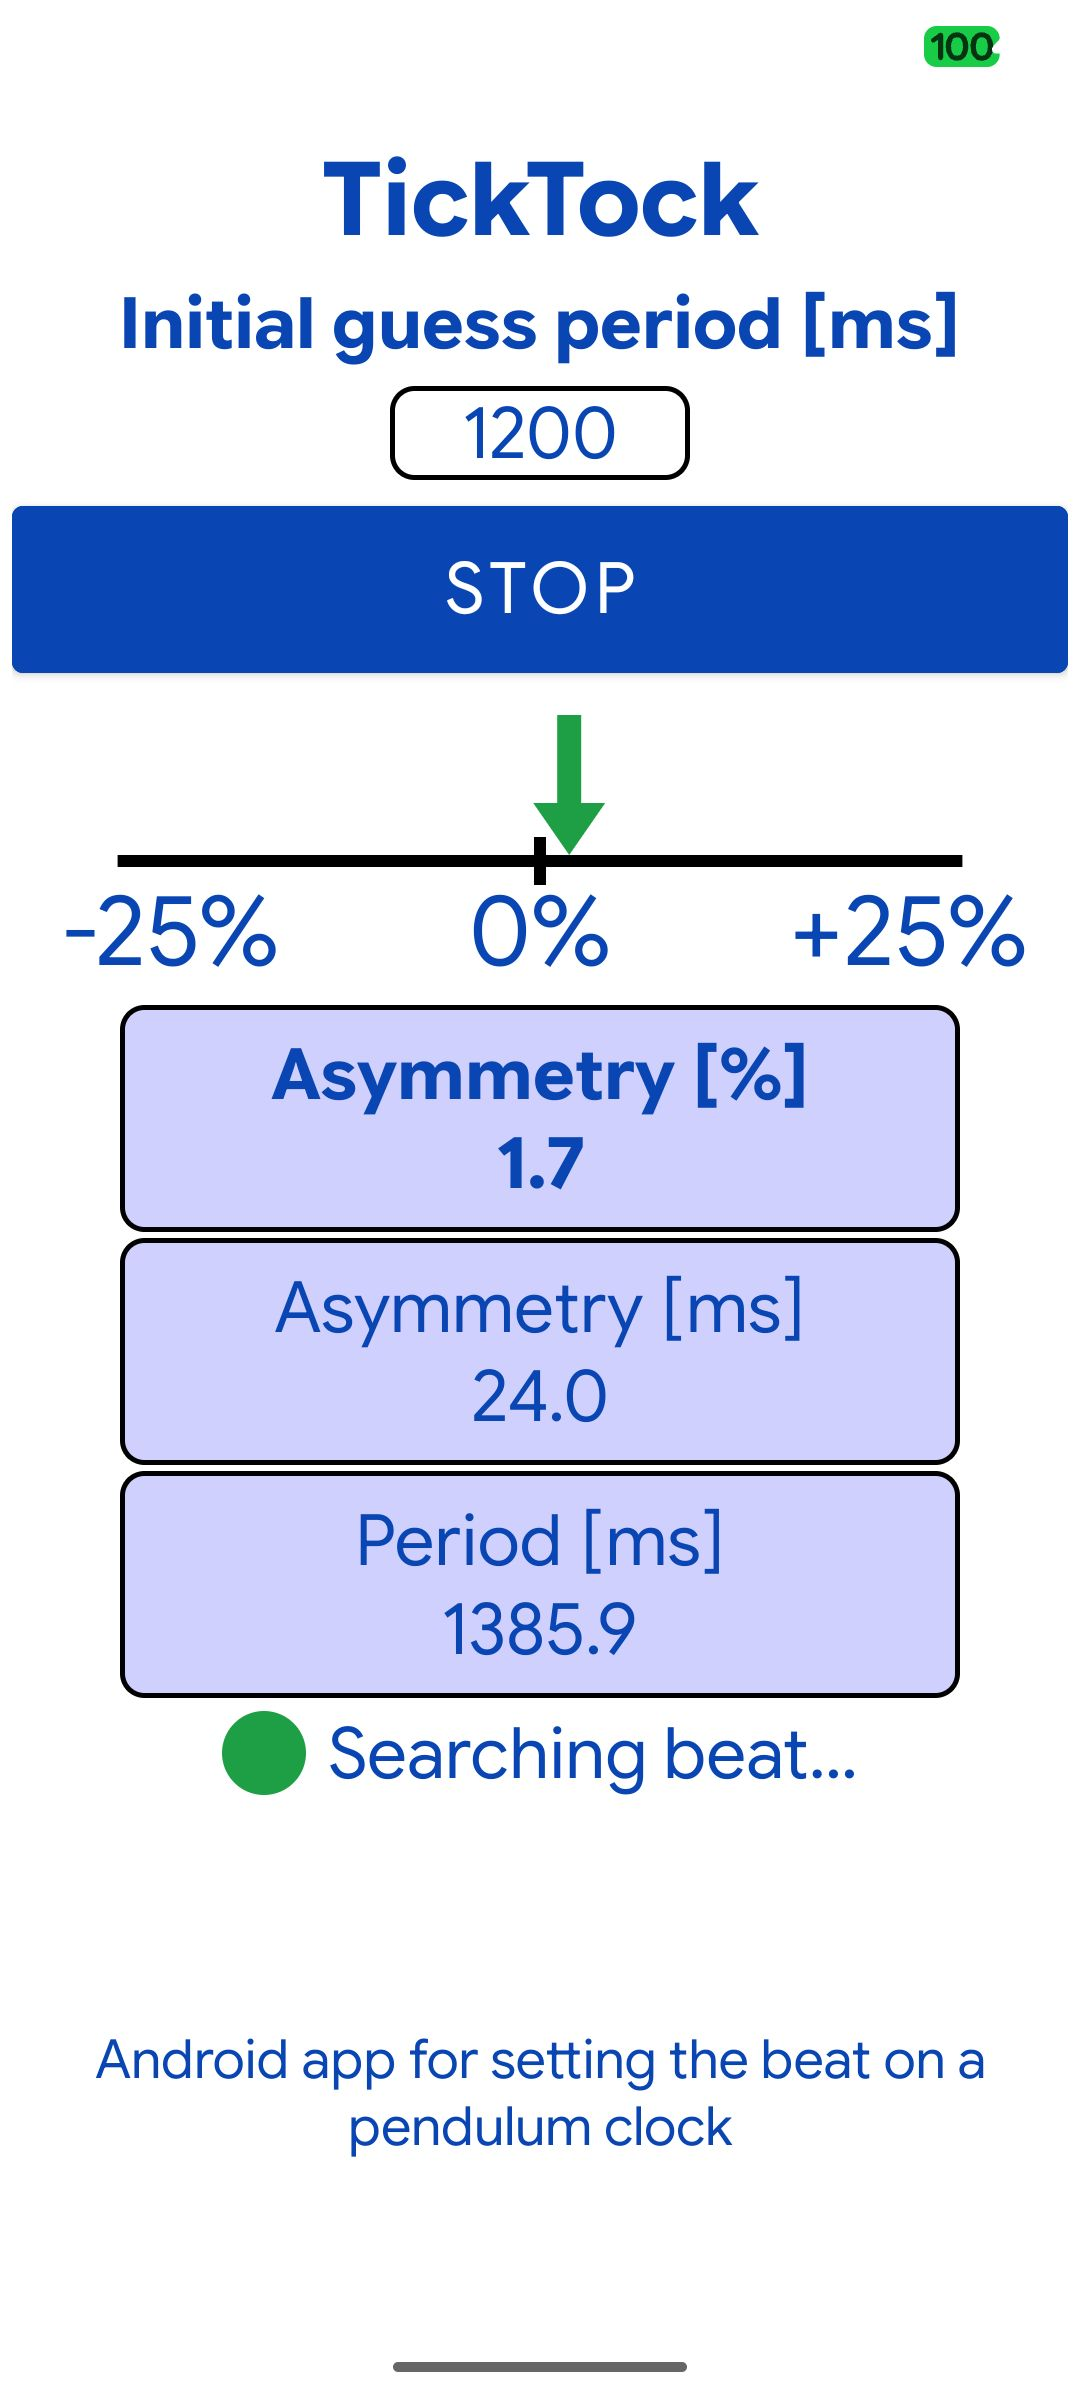
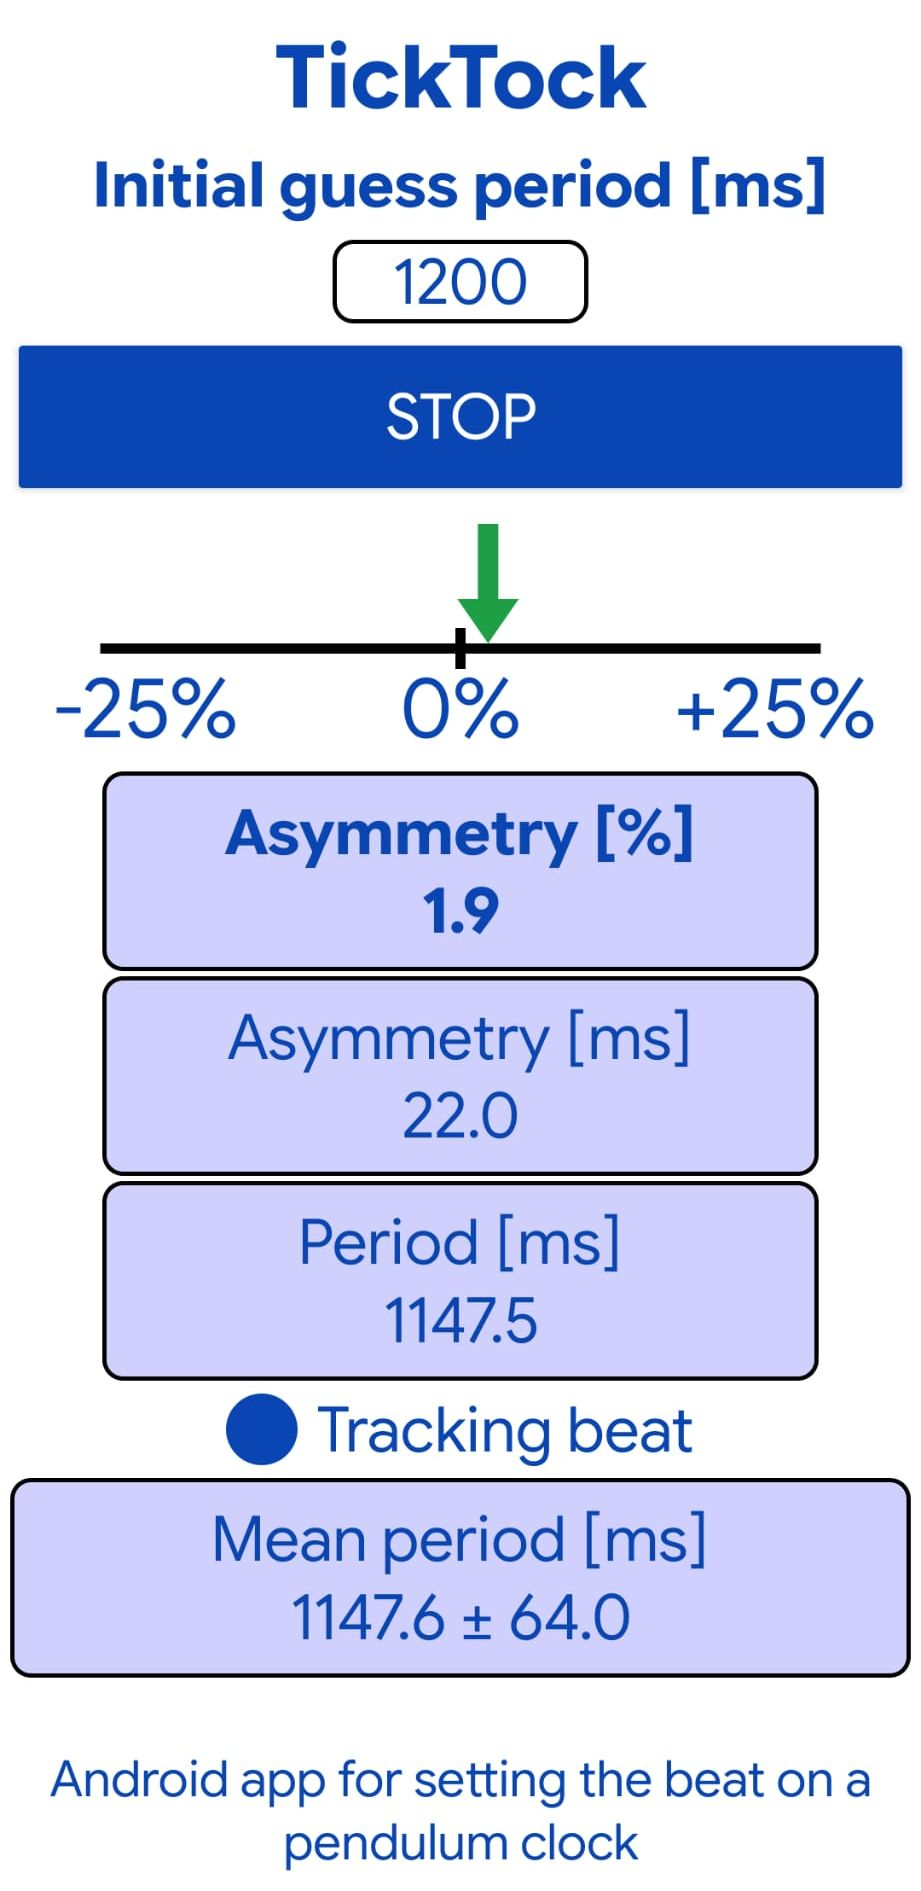
Release 1.0.4

diff --git a/app/src/main/java/com/ticktock/app/MainActivity.kt b/app/src/main/java/com/ticktock/app/MainActivity.kt
@@ -1,24 +1,34 @@
 package com.ticktock.app
 
 import android.Manifest
+import android.content.ContentValues
 import android.content.pm.PackageManager
 import android.os.Bundle
+import android.os.Environment
+import android.provider.MediaStore
 import android.util.TypedValue
 import android.view.View
 import android.view.ViewGroup
 import android.view.animation.AccelerateDecelerateInterpolator
 import android.widget.TextView
+import android.widget.Toast
 import androidx.activity.result.contract.ActivityResultContracts
 import androidx.appcompat.app.AppCompatActivity
 import androidx.core.content.ContextCompat
 import com.ticktock.app.databinding.ActivityMainBinding
+import java.text.SimpleDateFormat
+import java.util.Date
 import java.util.Locale
+import kotlin.concurrent.thread
 
 class MainActivity : AppCompatActivity() {
 
     private lateinit var binding: ActivityMainBinding
     private var analyzer: AudioBeatAnalyzer? = null
     private var running = false
+    private val beatLogLock = Any()
+    private val loggedBeats = mutableListOf<String>()
+    private var acceptingBeatLog = false
 
     private val permissionLauncher = registerForActivityResult(
         ActivityResultContracts.RequestPermission()
@@ -66,22 +76,85 @@ class MainActivity : AppCompatActivity() {
     private fun startAnalyzer() {
         val guessPeriodMs = binding.guessInput.text.toString().toLongOrNull()?.coerceIn(400, 8000) ?: 1200L
         binding.guessInput.setText(guessPeriodMs.toString())
+        synchronized(beatLogLock) {
+            loggedBeats.clear()
+            acceptingBeatLog = true
+        }
         binding.startButton.text = "Stop"
         binding.statusText.text = "Searching beat..."
+        binding.tickText.text = "Mean period [ms]\n--"
         running = true
 
         analyzer = AudioBeatAnalyzer(initialGuessPeriodMs = guessPeriodMs) { metrics ->
+            synchronized(beatLogLock) {
+                if (acceptingBeatLog) {
+                    loggedBeats += String.format(Locale.US, "%.3f", metrics.beatTimeSeconds)
+                }
+            }
             runOnUiThread { renderMetrics(metrics) }
         }.also { it.start() }
     }
 
     private fun stopAnalyzer() {
+        if (!running && analyzer == null) return
         analyzer?.stop()
         analyzer = null
+        val beats = synchronized(beatLogLock) {
+            acceptingBeatLog = false
+            loggedBeats.toList()
+        }
         running = false
         binding.startButton.text = "Start"
         binding.beatDot.backgroundTintList = ContextCompat.getColorStateList(this, R.color.ticktock_red)
         binding.statusText.text = "Searching beat..."
+        val meanPeriodStats = calculateMeanPeriodStats(
+            beatDeltas(beats),
+            trimEnd = true
+        )
+        binding.tickText.text = formatMeanPeriod(meanPeriodStats)
+        saveBeatLog(beats)
+    }
+
+    private fun saveBeatLog(beats: List<String>) {
+        val fileName = "ticktockBeats_${SimpleDateFormat("yyyy-MM-dd_HH-mm-ss", Locale.US).format(Date())}.txt"
+        thread(name = "BeatLogWriter", isDaemon = true) {
+            var uri = null as android.net.Uri?
+            try {
+                val values = ContentValues().apply {
+                    put(MediaStore.Files.FileColumns.DISPLAY_NAME, fileName)
+                    put(MediaStore.Files.FileColumns.MIME_TYPE, "text/plain")
+                    put(MediaStore.Files.FileColumns.RELATIVE_PATH, Environment.DIRECTORY_DOCUMENTS)
+                }
+                uri = contentResolver.insert(MediaStore.Files.getContentUri("external"), values)
+                    ?: error("Could not create the beat log")
+                contentResolver.openOutputStream(uri)?.bufferedWriter(Charsets.UTF_8).use { writer ->
+                    writer ?: error("Could not open the beat log")
+                    writer.write(beats.joinToString(separator = "\n"))
+                    if (beats.isNotEmpty()) writer.newLine()
+                }
+                runOnUiThread { showSaveToast("Beat log saved to Documents") }
+            } catch (error: Exception) {
+                uri?.let { contentResolver.delete(it, null, null) }
+                runOnUiThread { showSaveToast("Could not save beat log") }
+            }
+        }
+    }
+
+    private fun beatDeltas(beats: List<String>): List<Double> {
+        val beatTimes = beats.mapNotNull { it.toDoubleOrNull() }
+        return beatTimes.zipWithNext { previous, current -> (current - previous) * 1_000.0 }
+            .filter { it in 120.0..4_000.0 }
+    }
+
+    private fun formatMeanPeriod(stats: MeanPeriodStats?): String {
+        if (stats == null) return "Mean period [ms]\n--"
+        return "Mean period [ms]\n${format(stats.meanPeriodMs)} ± ${format(stats.standardDeviationMs)}"
+    }
+
+    private fun showSaveToast(message: String) {
+        val toast = Toast.makeText(this, message, Toast.LENGTH_LONG)
+        toast.show()
+        binding.root.postDelayed({ toast.cancel() }, 3_000)
     }
 
     private fun renderMetrics(metrics: BeatMetrics) {
@@ -114,6 +187,11 @@ class MainActivity : AppCompatActivity() {
         binding.periodText.text = "Period [ms]\n${format(metrics.periodMs)}"
         binding.asymmetryMsText.text = "Asymmetry [ms]\n${format(metrics.asymmetryMs)}"
         binding.asymmetryPercentText.text = "Asymmetry [%]\n${format(metrics.asymmetryPercent)}"
+        if (metrics.meanPeriodMs > 0.0) {
+            binding.tickText.text = formatMeanPeriod(
+                MeanPeriodStats(metrics.meanPeriodMs, metrics.meanPeriodStdDevMs)
+            )
+        }
     }
 
     private fun format(v: Double): String = String.format(Locale.US, "%.1f", v)
@@ -134,6 +212,7 @@ class MainActivity : AppCompatActivity() {
         scaleText(binding.asymmetryPercentText, 25f, scale)
         scaleText(binding.asymmetryMsText, 25f, scale)
         scaleText(binding.periodText, 25f, scale)
+        scaleText(binding.tickText, 25f, scale)
         scaleText(binding.statusText, 25f, scale)
         scaleText(binding.footerText, 18f, scale)
 
@@ -153,6 +232,7 @@ class MainActivity : AppCompatActivity() {
         updateTopMargin(binding.asymmetryMsText, (6f * scale).toInt())
         updateTopMargin(binding.periodText, (6f * scale).toInt())
         updateTopMargin(binding.beatRow, (8f * scale).toInt())
+        updateTopMargin(binding.tickText, (8f * scale).toInt())
         updateTopMargin(binding.footerText, (8f * scale).toInt())
     }
 

diff --git a/app/src/main/java/com/ticktock/app/AudioBeatAnalyzer.kt b/app/src/main/java/com/ticktock/app/AudioBeatAnalyzer.kt
@@ -14,8 +14,55 @@ data class BeatMetrics(
     val asymmetryMs: Double,
     val asymmetryPercent: Double,
     val beatLabel: Char,
-    val acquiring: Boolean
+    val acquiring: Boolean,
+    val beatTimeSeconds: Double = 0.0,
+    val meanPeriodMs: Double = 0.0,
+    val meanPeriodStdDevMs: Double = 0.0
 )
+
+data class MeanPeriodStats(
+    val meanPeriodMs: Double,
+    val standardDeviationMs: Double
+)
+
+fun calculateMeanPeriodStats(deltas: List<Double>, trimEnd: Boolean): MeanPeriodStats? {
+    if (deltas.isEmpty()) return null
+
+    val trimCount = (deltas.size * 0.10).toInt()
+    val trimmed = deltas.drop(trimCount).let { values ->
+        if (trimEnd) values.dropLast(trimCount) else values
+    }
+    if (trimmed.isEmpty()) return null
+
+    val sorted = trimmed.sorted()
+    val middle = sorted.size / 2
+    val median = if (sorted.size % 2 == 0) {
+        (sorted[middle - 1] + sorted[middle]) / 2.0
+    } else {
+        sorted[middle]
+    }
+    val initialMean = trimmed.average()
+    val initialStandardDeviation = kotlin.math.sqrt(
+        trimmed.map { delta -> (delta - initialMean) * (delta - initialMean) }.average()
+    )
+    val filtered = if (initialStandardDeviation == 0.0) {
+        trimmed
+    } else {
+        trimmed.filter {
+            it in median - 5.0 * initialStandardDeviation..median + 5.0 * initialStandardDeviation
+        }
+    }
+    if (filtered.isEmpty()) return null
+
+    val meanBeatMs = filtered.average()
+    val standardDeviationBeatMs = kotlin.math.sqrt(
+        filtered.map { delta -> (delta - meanBeatMs) * (delta - meanBeatMs) }.average()
+    )
+    return MeanPeriodStats(
+        meanPeriodMs = meanBeatMs * 2.0,
+        standardDeviationMs = standardDeviationBeatMs * 2.0
+    )
+}
 
 class AudioBeatAnalyzer(
     private val initialGuessPeriodMs: Long,
@@ -37,11 +84,13 @@ class AudioBeatAnalyzer(
 
     private var beatCount = 0
     private var lastBeatTimeNs = 0L
+    private var firstBeatTimeNs = 0L
     private var lastBeatLabel = 'R'
     private val maxRefinementBeats = 40
 
     private val lDurations = ArrayDeque<Double>()
     private val rDurations = ArrayDeque<Double>()
+    private val beatIntervals = mutableListOf<Double>()
 
     fun start() {
         if (running) return
@@ -133,9 +182,12 @@ class AudioBeatAnalyzer(
 
             beatCount += 1
             val beatLabel = if (beatCount % 2 == 1) 'L' else 'R'
+            if (firstBeatTimeNs == 0L) firstBeatTimeNs = beatTimeNs
+            val beatTimeSeconds = (beatTimeNs - firstBeatTimeNs) / 1_000_000_000.0
 
             if (lastBeatTimeNs != 0L) {
                 val deltaMs = (beatTimeNs - lastBeatTimeNs) / 1_000_000.0
+                if (deltaMs in 120.0..4_000.0) beatIntervals += deltaMs
                 // Tracking and asymmetry computation continue after fit refinement ends.
                 if (lastBeatLabel == 'L' && beatLabel == 'R') {
                     addDuration(lDurations, deltaMs)
@@ -146,7 +198,7 @@ class AudioBeatAnalyzer(
 
             lastBeatTimeNs = beatTimeNs
             lastBeatLabel = beatLabel
-            emitMetrics(beatLabel)
+            emitMetrics(beatLabel, beatTimeSeconds)
         }
     }
 
@@ -156,7 +208,7 @@ class AudioBeatAnalyzer(
         while (queue.size > 14) queue.removeFirst()
     }
 
-    private fun emitMetrics(label: Char) {
+    private fun emitMetrics(label: Char, beatTimeSeconds: Double) {
         val l = if (lDurations.isNotEmpty()) lDurations.average() else 0.0
         val r = if (rDurations.isNotEmpty()) rDurations.average() else 0.0
         val acquiring = lDurations.size < 3 || rDurations.size < 3 || beatCount < 10
@@ -165,9 +217,21 @@ class AudioBeatAnalyzer(
             val period = l + r
             val asymMs = l - r
             val asymPct = 100.0 * asymMs / period
-            onMetrics(BeatMetrics(period, asymMs, asymPct, label, acquiring))
+            val meanPeriodStats = calculateMeanPeriodStats(beatIntervals, trimEnd = false)
+            onMetrics(
+                BeatMetrics(
+                    period,
+                    asymMs,
+                    asymPct,
+                    label,
+                    acquiring,
+                    beatTimeSeconds,
+                    meanPeriodStats?.meanPeriodMs ?: 0.0,
+                    meanPeriodStats?.standardDeviationMs ?: 0.0
+                )
+            )
         } else {
-            onMetrics(BeatMetrics(0.0, 0.0, 0.0, label, true))
+            onMetrics(BeatMetrics(0.0, 0.0, 0.0, label, true, beatTimeSeconds))
         }
     }
 

diff --git a/README.md b/README.md
@@ -9,6 +9,9 @@ TickTock is an Android app for setting the beat of a pendulum clock. It listens 
 - Estimates the beat period, asymmetry in milliseconds, and asymmetry percentage.
 - Displays the asymmetry on a gauge from -25% to +25%.
 - Highlights the beat status with color-coded feedback.
+- Logs every detected beat with millisecond precision relative to the first beat.
+- Shows the filtered mean period and observed standard deviation while tracking and after stopping, calculated as twice the average beat interval.
+- Saves the beat log automatically in the user's `Documents` folder when stopped.
 
 ## How To Use
 
@@ -17,7 +20,13 @@ TickTock is an Android app for setting the beat of a pendulum clock. It listens 
 3. Tap `Start` and grant microphone permission if the system asks for it.
 4. Wait while the app searches, locks onto the beat, and updates the measurements.
 5. Read the period, asymmetry in `ms`, and asymmetry in `%`.
-6. Tap `Stop` when you want to stop listening.
+6. While tracking, read the live `Mean period [ms]` value and its observed standard deviation after each detected beat.
+7. Tap `Stop` when you want to stop listening and save the beat log.
+8. Read the final filtered mean period and observed standard deviation in the `Mean period [ms]` box.
+9. Find the log in `Documents` with a name such as `ticktockBeats_2026-09-14_15-42-07.txt`.
+
+Each line in the text file contains one beat time in seconds, formatted to three decimal places. The first detected beat is always `0.000`.
+During tracking, the displayed mean period is twice the average of adjacent beat intervals after removing the first 10% and filtering values outside the median +/- five standard deviations. At stop, the last 10% is removed as well. The value after `+/-` is the observed standard deviation of the retained period intervals.
 
 ## Preview
 

diff --git a/TickTock_instructions.md b/TickTock_instructions.md
@@ -65,6 +65,8 @@ After finding the beat, the values may show a drift for about 10 beats. This may
 
 There is a blue button for starting the audio recording. Add a text inside this button: "Start" for beginning the recording. Once the audio recording has started, change the text to "Stop". Pressing this button stops the audio acquisition, and changes the button text back to "Start"
 
+When **Start** is pressed, log every detected beat time with millisecond precision. Use the first detected beat as the zero offset and write one timestamp per line in seconds. When **Stop** is pressed, save the log without prompting the user to the Documents folder as `ticktockBeats_[date-hour].txt`, where the timestamp identifies the date and hour of the recording. Show a confirmation popup for three seconds after a successful save.
+
 Below the GUI add a text reading "Android app for setting the beat on a pendulum clock"
 
 Make a better icon for the app, with a more clear image of a pendulum clock. The icon of the installed apk should be visualized in both square or circular shape (background color in both images consistent, without square cutout)
@@ -75,6 +77,8 @@ Remove the debug apk and assemble a release app
 Upload everything, including the built apk to github
 
 ## Update2
+
+The running mean period is updated after each detected beat. The UI displays the mean period and observed standard deviation with one decimal place. The live calculation removes the initial 10% of beat intervals and rejects values outside the median +/- five standard deviations; the final stopped calculation also removes the last 10%.
 
 The fit stops after the required number of beats, but the tracking too: tracking and calculation of beats asymmetry and all UI indications should continue
 

diff --git a/CHANGELOG.md b/CHANGELOG.md
@@ -2,6 +2,27 @@
 
 All notable changes to TickTock are documented here.
 
+## 1.0.4 - 2026-09-15
+
+### Added
+
+- Added live mean-period updates after each detected beat while tracking.
+- Added the observed standard deviation alongside the mean period, with one decimal place, during tracking and after stopping.
+- Added live filtering that removes the initial 10% of beat intervals and rejects values outside the median +/- five standard deviations. The final stopped calculation also removes the last 10%.
+
+## 1.0.3 - 2026-09-14
+
+### Added
+
+- Added automatic beat logging with millisecond precision and first-beat zero offset.
+- Added a stop-time filtered average tick duration to the tracking screen.
+- Added automatic saving of beat logs to the user's Documents folder on Stop.
+- Added a three-second save confirmation popup.
+
+### Changed
+
+- Beat log filenames now include minutes and seconds to distinguish recordings made within the same hour.
+
 ## 1.0.2 - 2026-07-03
 
 ### Changed
